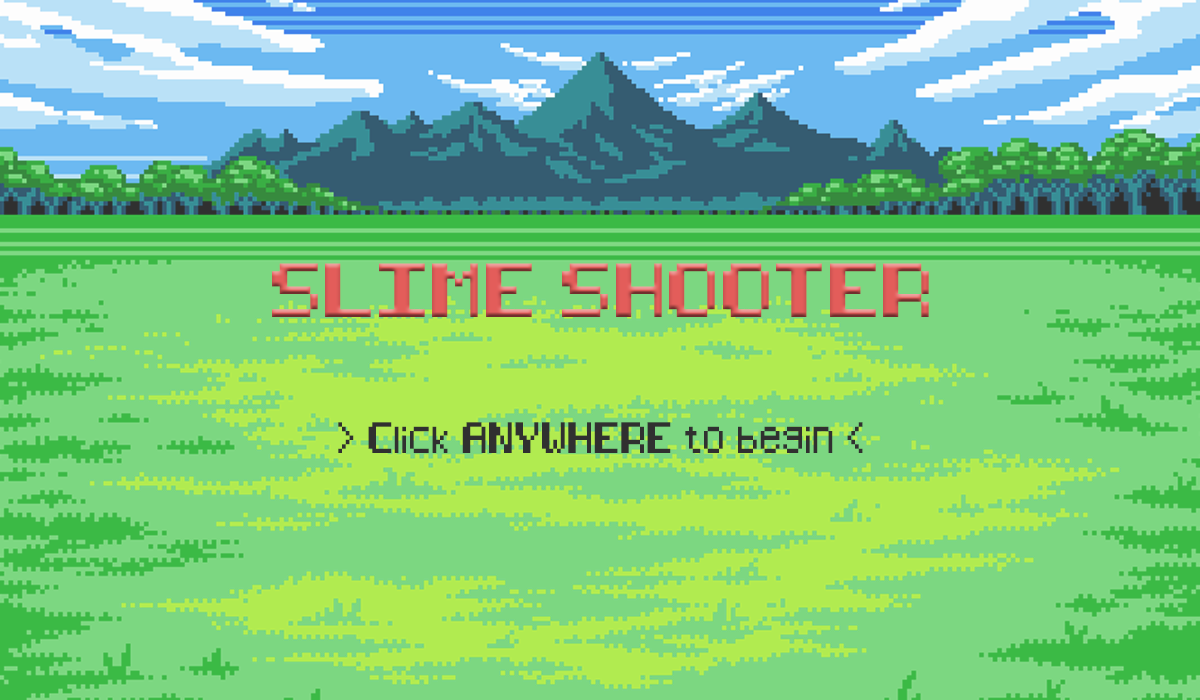
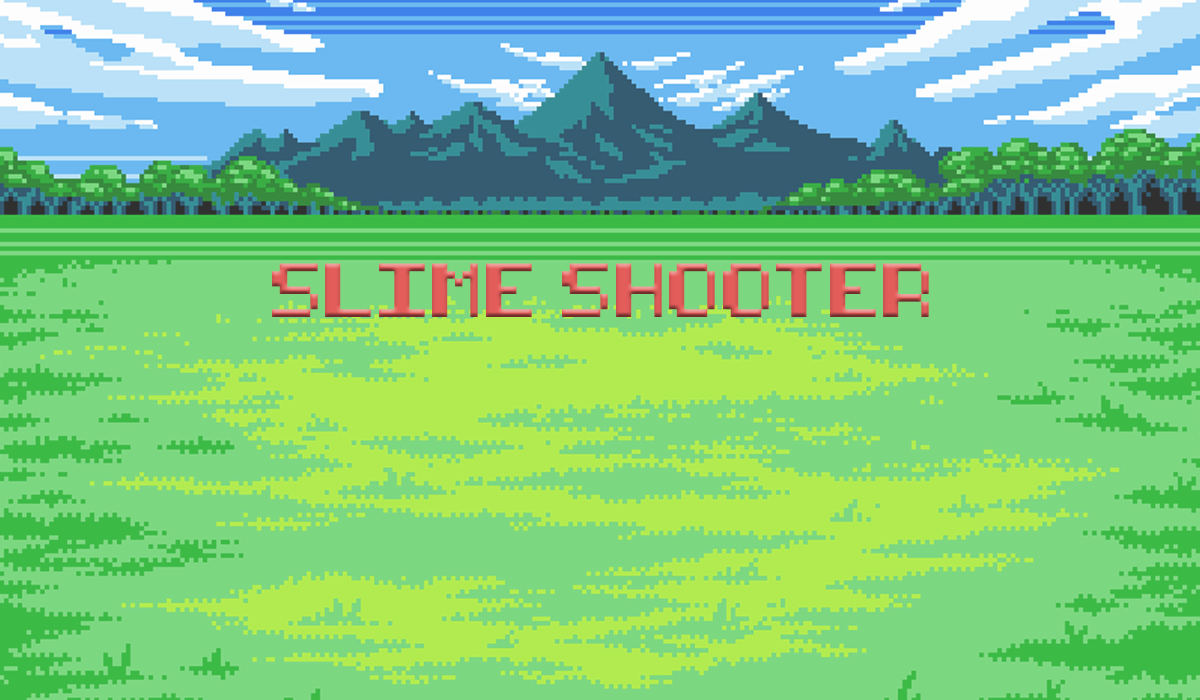
Change main menu and Fix UI Bugs

Changed region(s): [[0.2775, 0.6, 0.74, 0.66]]

diff --git a/src/main/MainMenu.java b/src/main/MainMenu.java
@@ -18,8 +18,10 @@ public class MainMenu extends StackPane {
 		BackgroundImage myBI = new BackgroundImage(MAIN_MENU, BackgroundRepeat.REPEAT,
 				BackgroundRepeat.NO_REPEAT, BackgroundPosition.DEFAULT, BackgroundSize.DEFAULT);
 		this.setBackground(new Background(myBI));
+		PlayButton playButton = new PlayButton();
+		playButton.setTranslateY(100);
 
-		this.setOnMouseClicked(new EventHandler<MouseEvent>() {
+		playButton.setOnMouseClicked(new EventHandler<MouseEvent>() {
 
 			@Override
 			public void handle(MouseEvent event) {
@@ -28,7 +30,7 @@ public class MainMenu extends StackPane {
 
 		});
 		
-		// playGame(); // Calling this method will start the game.
+		this.getChildren().add(playButton);
 	}
 
 	public void playGame() {

diff --git a/src/main/PauseButton.java b/src/main/PauseButton.java
@@ -2,17 +2,12 @@ package main;
 
 import javafx.scene.image.Image;
 import javafx.scene.image.ImageView;
-import javafx.scene.layout.Pane;
 
-public class PauseButton extends Pane {
+public class PauseButton extends ImageView {
 	
 	private static final Image PAUSE = new Image(ClassLoader.getSystemResource("other/pausebtn.png").toString());
-	private ImageView imageView;
 	
 	public PauseButton() {
-		imageView = new ImageView();
-		imageView.setImage(PAUSE);
-		this.setPrefSize(imageView.getFitWidth(), imageView.getFitHeight());
-		this.getChildren().add(imageView);
+		this.setImage(PAUSE);
 	}
 }

diff --git a/src/main/GameUI.java b/src/main/GameUI.java
@@ -26,8 +26,8 @@ public class GameUI extends StackPane {
 		upgradeUI.setVisible(false);
 		
 		PauseButton pauseButton = new PauseButton();
-		pauseButton.setTranslateX(MainApplication.SCREEN_WIDTH - 60);
-		pauseButton.setTranslateY(10);
+		pauseButton.setTranslateX(MainApplication.SCREEN_WIDTH / 2 - 30);
+		pauseButton.setTranslateY(30 - MainApplication.SCREEN_HEIGHT / 2);
 		pauseButton.setOnMouseClicked(new EventHandler<MouseEvent>() {
 
 			@Override

diff --git a/src/main/PlayButton.java b/src/main/PlayButton.java
@@ -1,0 +1,14 @@
+package main;
+
+import javafx.scene.image.Image;
+import javafx.scene.image.ImageView;
+
+public class PlayButton extends ImageView {
+	
+	private static final Image PLAY = new Image(ClassLoader.getSystemResource("other/startbtn.png").toString());
+
+	public PlayButton() {
+		this.setImage(PLAY);
+	}
+	
+}
